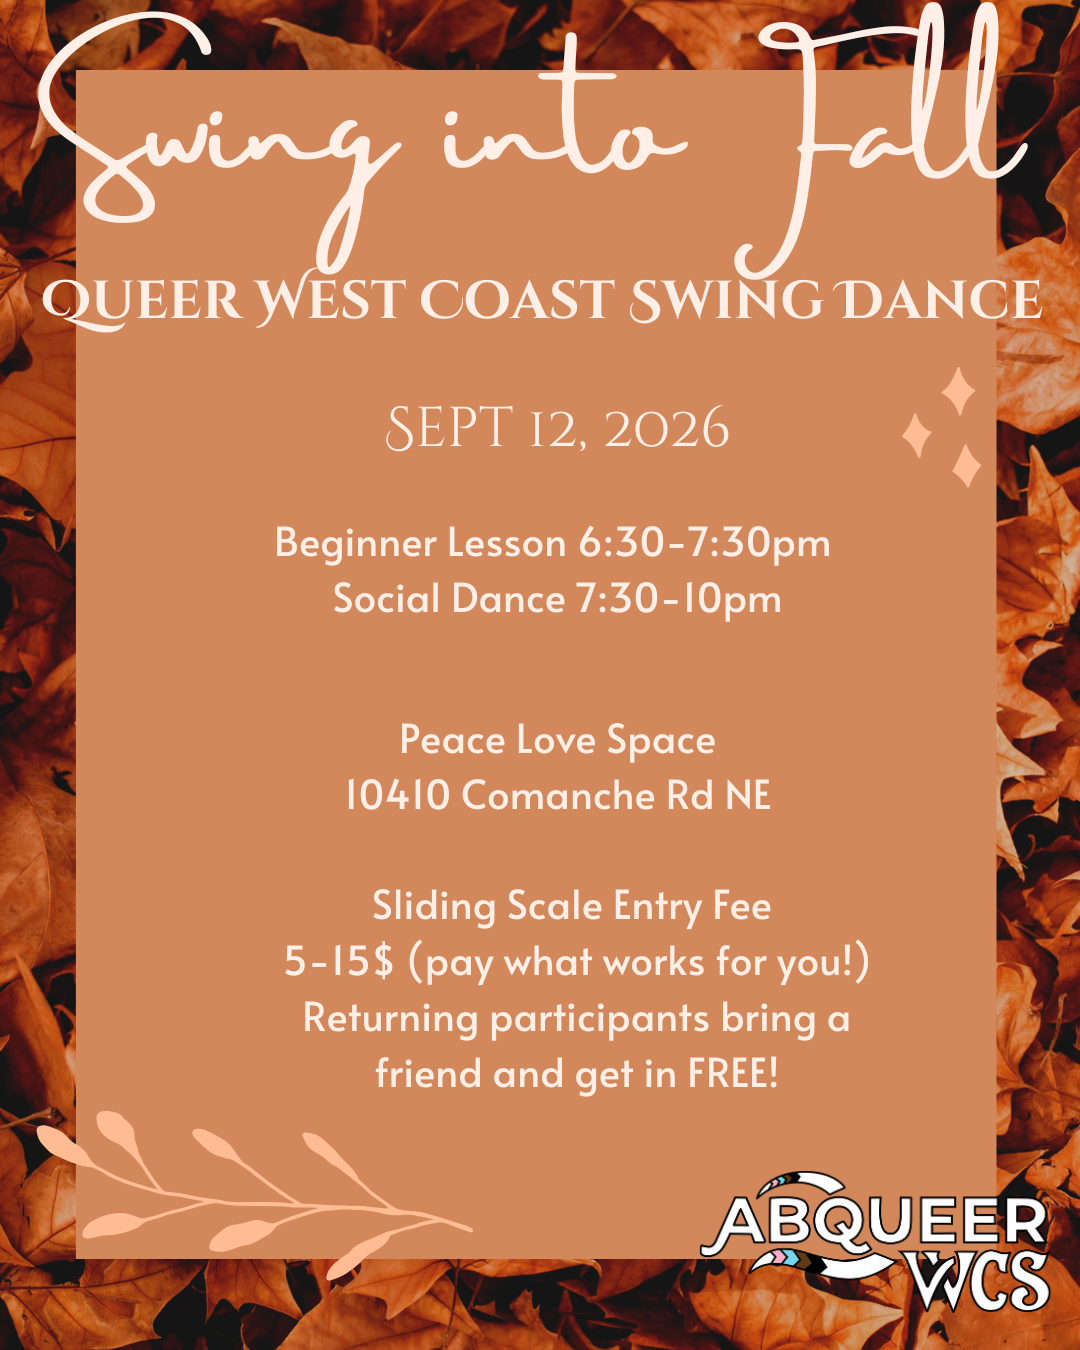
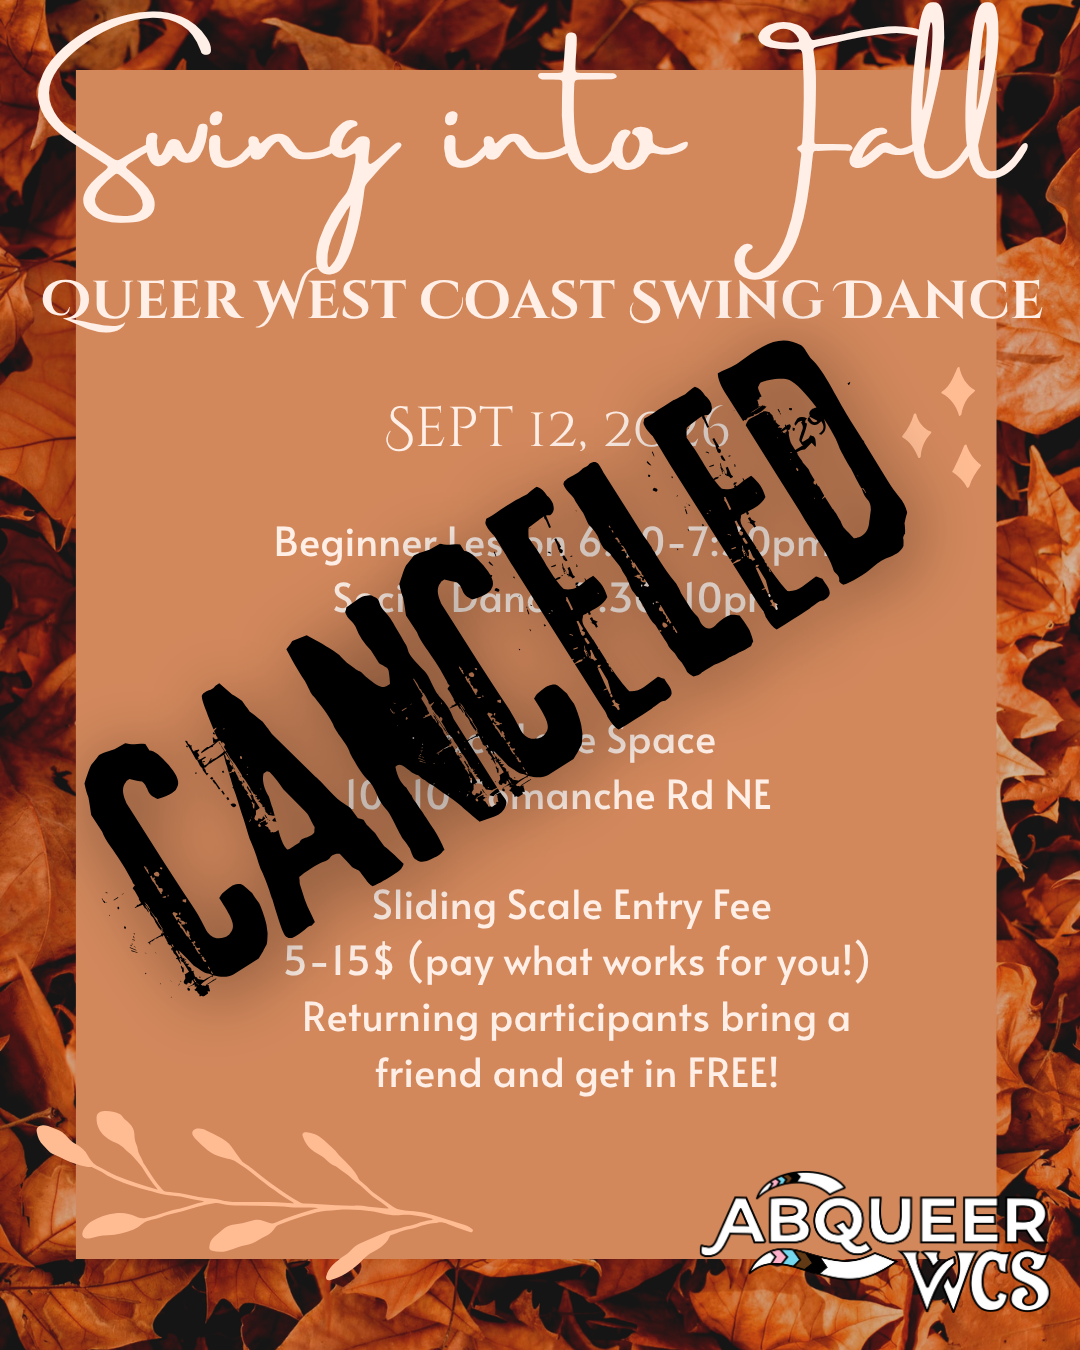
Updated september flyer

Changed region(s): [[0.0611, 0.2489, 0.8556, 0.7467]]

diff --git a/docs/index.html b/docs/index.html
@@ -2,7 +2,7 @@
 <html lang="en">
 <head>
   <meta charset="UTF-8">
-  <title>Home</title>
+  <title>ABQueer West Coast Swing</title>
   <meta name="viewport" content="width=device-width, initial-scale=1">
 
   <link rel="stylesheet" href="/assets/css/main.css">
